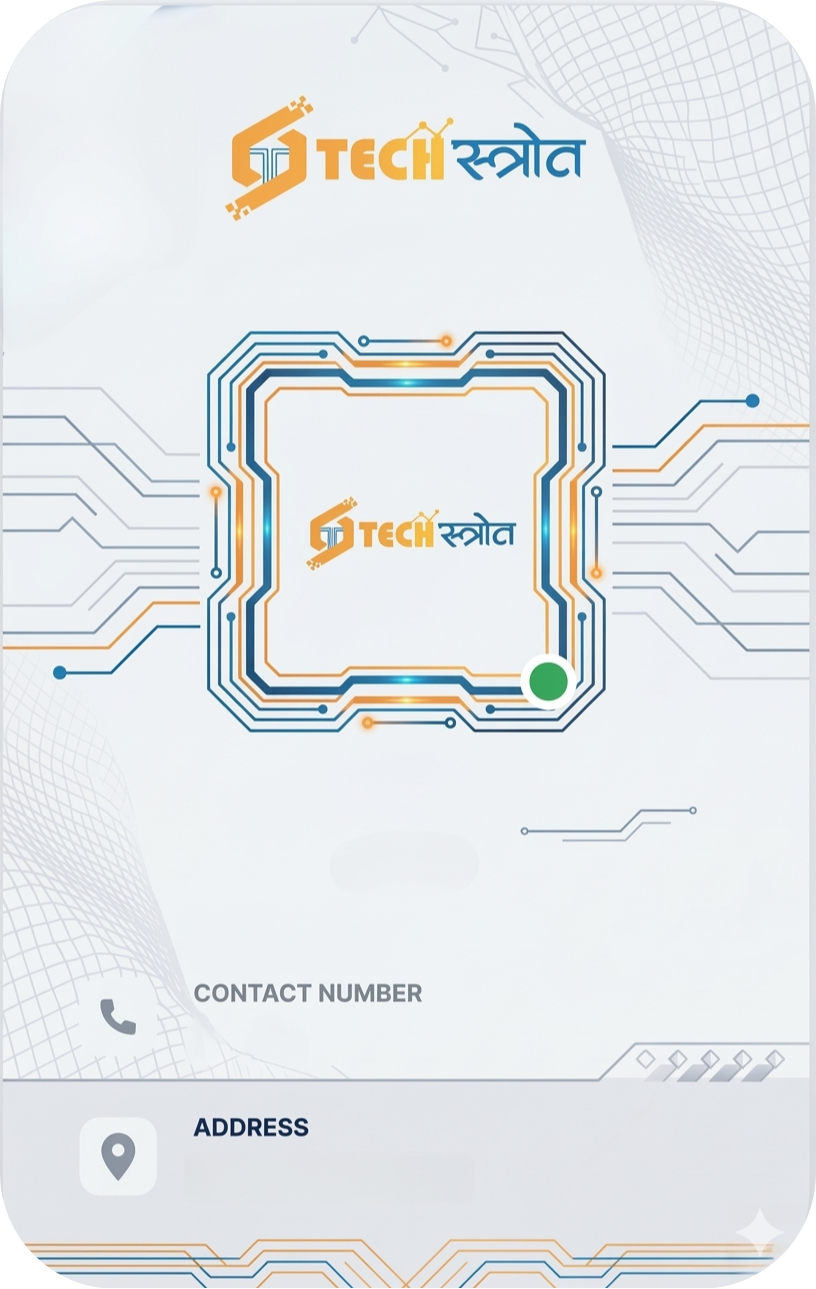
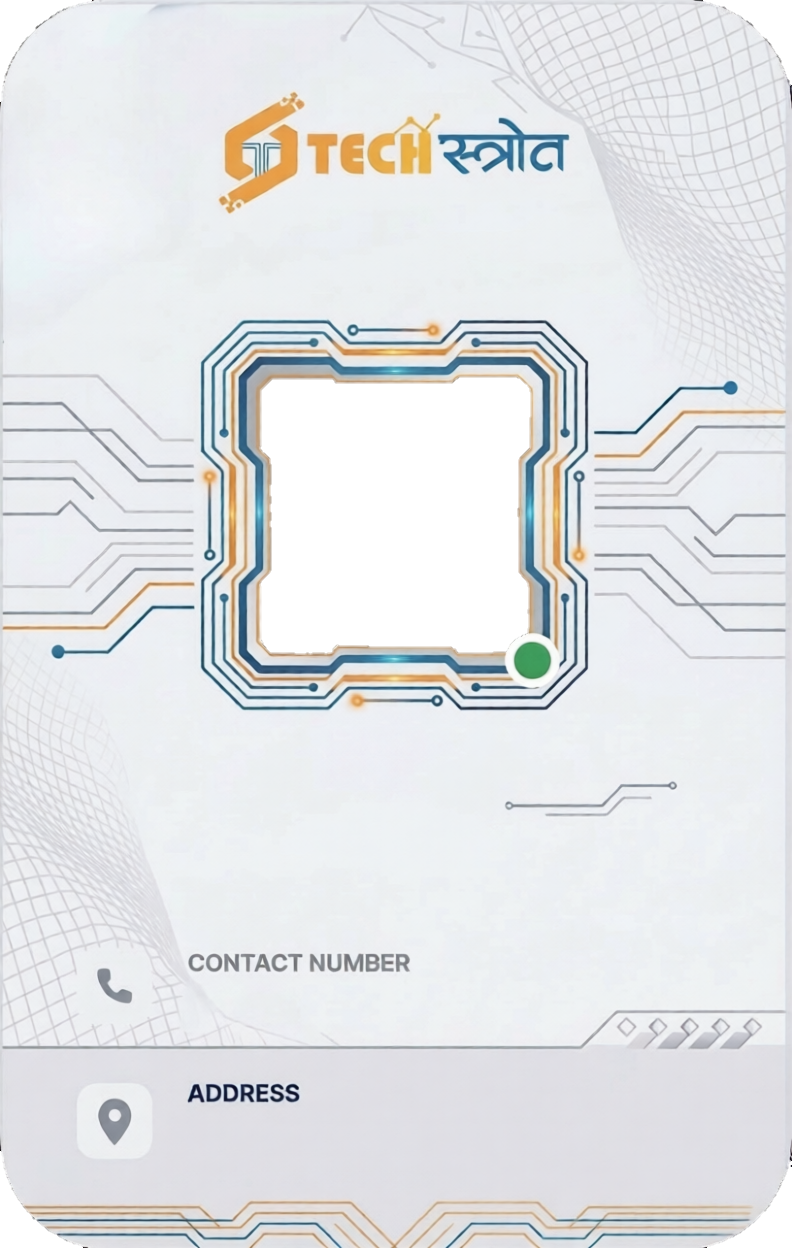
i - card blade and baclground image updated

diff --git a/resources/views/i-card/intern-id-card.blade.php b/resources/views/i-card/intern-id-card.blade.php
@@ -6,7 +6,6 @@
         @page { margin: 0; }
         body { margin: 0; padding: 0; font-family: 'Helvetica', sans-serif; }
         
-        /* Container must be relative for positioning inside */
         .card-container {
             position: relative;
             width: 153pt; 
@@ -14,17 +13,50 @@
             overflow: hidden;
         }
 
-        /* Background image is placed ABSOLUTE at the front (higher z-index) */
+        /* =========================================
+           LAYER 1: BOTTOM (Intern Photo) 
+           ========================================= */
+        .photo-container {
+            position: absolute;
+            top: 70pt; 
+            left: 48.5%; 
+            width: 60pt; 
+            height: 60pt;
+            margin-left: -30pt; 
+            z-index: 1; /* Lowest Layer */
+            overflow: hidden; 
+            border-radius: 4px; 
+            /* Note: Removed flexbox as PDF engines do not support it */
+        }
+
+        .photo {
+            width: 100%;
+            height: 100%;
+            /* object-fit: cover; works in modern browsers, but if it fails in PDF, 
+               ensure your $internImageBase64 is cropped to a 1:1 ratio before encoding */
+        }
+
+        /* =========================================
+           LAYER 2: MIDDLE (Background Frame) 
+           ========================================= */
         .bg-image {
             position: absolute;
             top: 0;
             left: 0;
-            width: 100%;
-            height: 100%;
-            z-index: 10; /* Circuit is at the front */
+            width: 153pt;
+            height: 243pt;
+            z-index: 2; /* Middle Layer - Covers the edges of the photo */
         }
 
-        .int-id{
+        /* =========================================
+           LAYER 3: TOP (All Text Elements) 
+           ========================================= */
+        /* Grouping z-index for all text to ensure it stays above the background */
+        .int-id, .name, .role, .date, .contact, .address {
+            z-index: 3; /* Top Layer */
+        }
+
+        .int-id {
             position: absolute;
             top: 45pt;
             width: 100%;
@@ -35,30 +67,6 @@
             text-transform: uppercase;
         }
         
-        /* Photo container is placed ABSOLUTE and behind the background */
-.photo-container {
-    position: absolute;
-    /* Manually position the photo BEHIND the hole */
-    top: 83pt; /* Adjust vertically to align with the hole */
-    left: 47%; /* Adjust horizontally to center under the hole */
-    width: 60pt; /* Size of the intern photo slightly smaller than the hole */
-    height: 60pt;
-    margin-left: -30pt; /* Negative margin for perfect centering */
-    z-index: 5; /* Intern photo is behind the background */
-    display: flex; /* Use flexbox to center image within container */
-    justify-content: center;
-    align-items: center;
-    overflow: hidden; /* Hide anything outside the photo container */
-}
-
-/* Make sure the photo fills its container */
-.photo {
-    width: 100%;
-    height: 100%;
-    object-fit: cover; /* Cover the whole area without distortion */
-    border-radius: 4px; /* Slight rounded corner on the photo itself */
-}
-
         .name {
             position: absolute;
             top: 140pt;
@@ -80,7 +88,7 @@
             text-transform: uppercase;
         }
         
-        .date{
+        .date {
             position: absolute;
             top: 170pt;
             width: 100%;
@@ -88,8 +96,8 @@
             font-size: 8pt;
             font-weight: bold;
             color: #1E73BE; 
-
         }
+
         .contact {
             position: absolute;
             bottom: 42pt; 
@@ -112,13 +120,14 @@
 </head>
 <body>
     <div class="card-container">
-        <img src="{{ $base64Image }}" class="bg-image">
-
+        
         <div class="photo-container">
            @if($internImageBase64)
                 <img src="{{ $internImageBase64 }}" class="photo">
            @endif
         </div>
+
+        <img src="{{ $base64Image }}" class="bg-image">
 
         <div class="name">{{ strtoupper($intern->application->name) }}</div>
         <div class="role">INTERN</div>
@@ -128,13 +137,14 @@
         -
         {{ $intern->offer_letters?->completion_date 
             ? \Carbon\Carbon::parse($intern->offer_letters->completion_date)->format('d M Y') 
-            : '' }}]
+            : 'PRESENT' }}]
         </div>
         <div class="contact">{{ $intern->application->phone }}</div>
         <div class="address">
             TechSrota, Alkapuri,<br>
             Vadodara, Gujarat - 390007
         </div>
+        
     </div>
 </body>
 </html>
